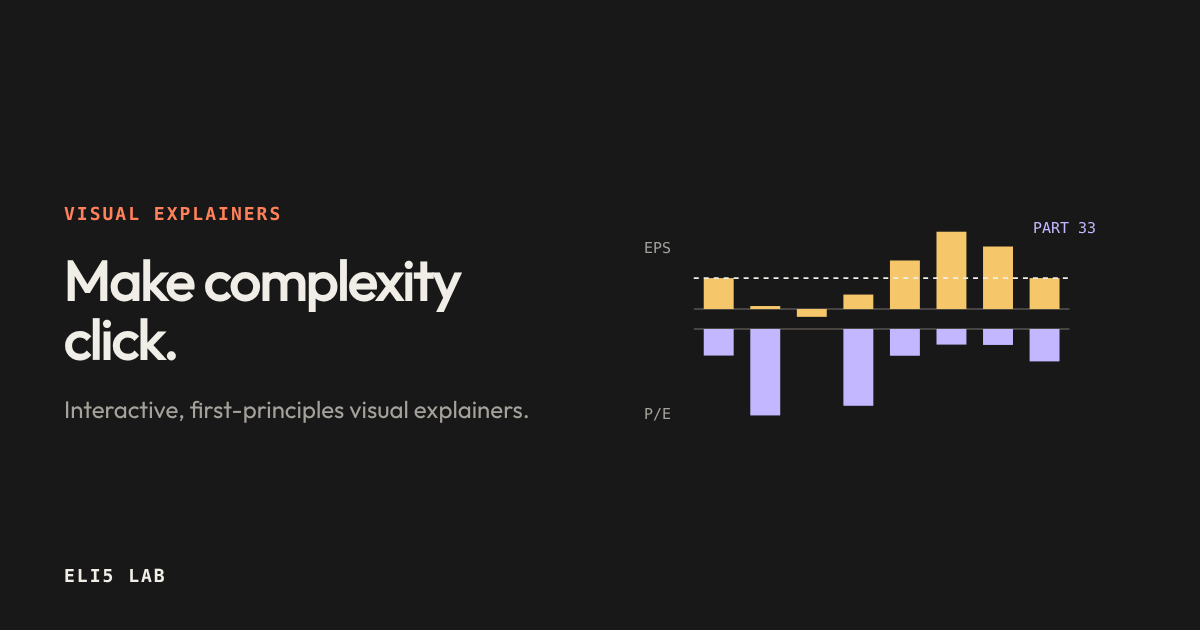
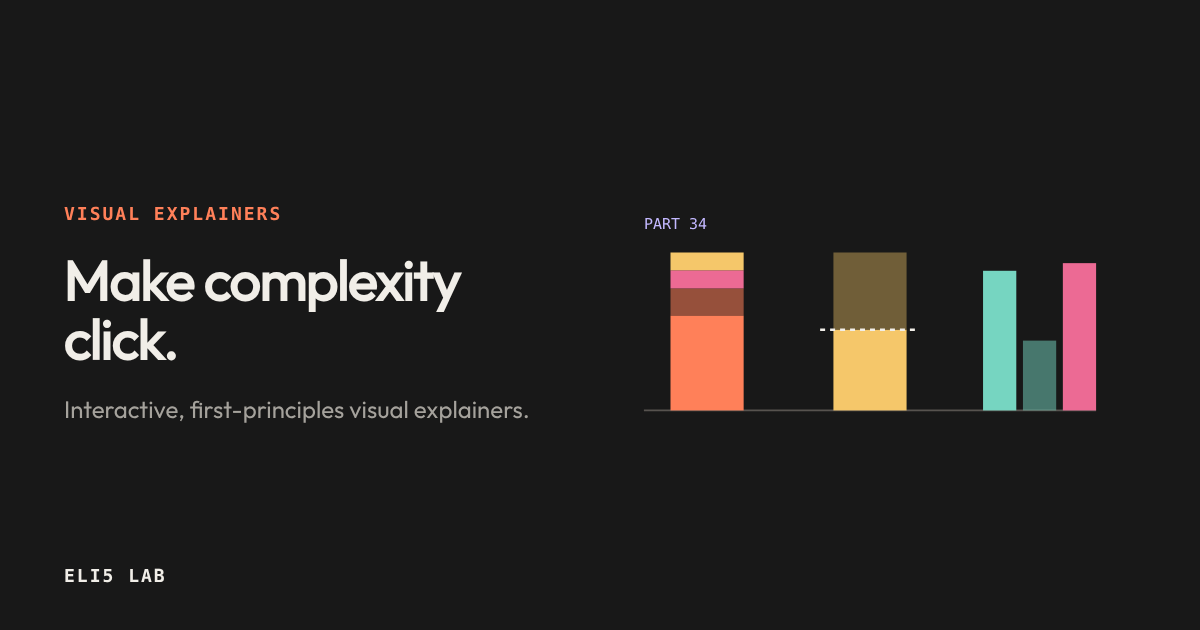
content: publish Part 34, "Utilities, PSUs and real estate"
Claude-Session: https://claude.ai/code/session_01UXW7E4aVSwbFHa7ZdPFLc9

Changed region(s): [[0.5242, 0.3619, 0.925, 0.6635], [0.5242, 0.3317, 0.5858, 0.3921], [0.8633, 0.3317, 0.8942, 0.3921]]

diff --git a/published.js b/published.js
@@ -1,5 +1,28 @@
 window.PUBLISHED = [
   {
+    "id": "utilities-psus-real-estate-eli5",
+    "title": "Utilities, PSUs and real estate",
+    "category": "Monetary Architecture",
+    "minutes": 22,
+    "summary": "Part 34: regulated returns, government owners, and cash before revenue",
+    "bullets": [
+      "A regulated utility earns a set return on approved equity, so profit tracks equity, not sales",
+      "Developers collect years before revenue: read bookings, collections, customer advances and net debt"
+    ],
+    "kind": "flow",
+    "color": "#ff8059",
+    "nodes": [
+      "REGULATED EQUITY",
+      "PSU DIVIDEND",
+      "PRE-SALES"
+    ],
+    "file": "explainers/utilities-psus-real-estate-eli5.html",
+    "date": "2026-11-23",
+    "subcategory": "Fundamental analysis, from scratch",
+    "card": "<svg viewBox=\"0 0 320 155\" role=\"img\" aria-label=\"Three small bar stacks: a utility tariff whose thin gold top slice is the regulated return, a company 51 percent owned by the government, and a developer whose bookings and customer advances stand far taller than its revenue\"><path d=\"M24 135H296\" stroke=\"#57534f\" fill=\"none\"/><rect x=\"40\" y=\"78\" width=\"44\" height=\"57\" fill=\"#ff8059\"/><rect x=\"40\" y=\"61.6\" width=\"44\" height=\"16.4\" fill=\"#ff8059\" fill-opacity=\"0.55\"/><rect x=\"40\" y=\"50.7\" width=\"44\" height=\"10.9\" fill=\"#ec6a94\"/><rect x=\"40\" y=\"40\" width=\"44\" height=\"10.7\" fill=\"#f5c76a\"/><rect x=\"138\" y=\"86.5\" width=\"44\" height=\"48.5\" fill=\"#f5c76a\"/><rect x=\"138\" y=\"40\" width=\"44\" height=\"46.5\" fill=\"#f5c76a\" fill-opacity=\"0.4\"/><path d=\"M130 86.5H190\" stroke=\"#f1eee8\" stroke-width=\"1.5\" stroke-dasharray=\"3 3\" fill=\"none\"/><rect x=\"228\" y=\"51\" width=\"20\" height=\"84\" fill=\"#76d5c1\"/><rect x=\"252\" y=\"93\" width=\"20\" height=\"42\" fill=\"#76d5c1\" fill-opacity=\"0.5\"/><rect x=\"276\" y=\"46.4\" width=\"20\" height=\"88.6\" fill=\"#ec6a94\"/><g font-family=\"monospace\" font-size=\"9\"><text x=\"24\" y=\"26\" fill=\"#c3b8ff\">PART 34</text></g></svg>",
+    "part": 34
+  },
+  {
     "id": "cyclicals-eli5",
     "title": "Cyclicals",
     "category": "Monetary Architecture",

diff --git a/explainers/utilities-psus-real-estate-eli5.html b/explainers/utilities-psus-real-estate-eli5.html
@@ -71,6 +71,20 @@
     .readouts b{display:block;font:600 20px/1.2 var(--font-mono);color:var(--fg)}
     .readouts span{display:block;font:11px/1.4 var(--font-mono);letter-spacing:.06em;color:var(--muted);margin-top:2px}
   </style>
+<!-- link-preview:start -->
+<meta name="description" content="Part 34: regulated returns, government owners, and cash before revenue">
+<link rel="canonical" href="https://eli5-seven-mu.vercel.app/explainers/utilities-psus-real-estate-eli5">
+<meta property="og:type" content="article">
+<meta property="og:site_name" content="ELI5 Lab">
+<meta property="og:title" content="Utilities, PSUs and real estate">
+<meta property="og:description" content="Part 34: regulated returns, government owners, and cash before revenue">
+<meta property="og:url" content="https://eli5-seven-mu.vercel.app/explainers/utilities-psus-real-estate-eli5">
+<meta property="og:image" content="https://eli5-seven-mu.vercel.app/assets/og/utilities-psus-real-estate-eli5.png?v=17c2969f">
+<meta property="og:image:width" content="1200"><meta property="og:image:height" content="630">
+<meta property="og:image:alt" content="Utilities, PSUs and real estate">
+<meta property="article:published_time" content="2026-11-23">
+<meta name="twitter:card" content="summary_large_image">
+<!-- link-preview:end -->
 </head>
 <body data-series-id="utilities-psus-real-estate-eli5">
   <div class="eli5-progress-track"><div class="eli5-progress-fill" id="readingProgress"></div></div>
